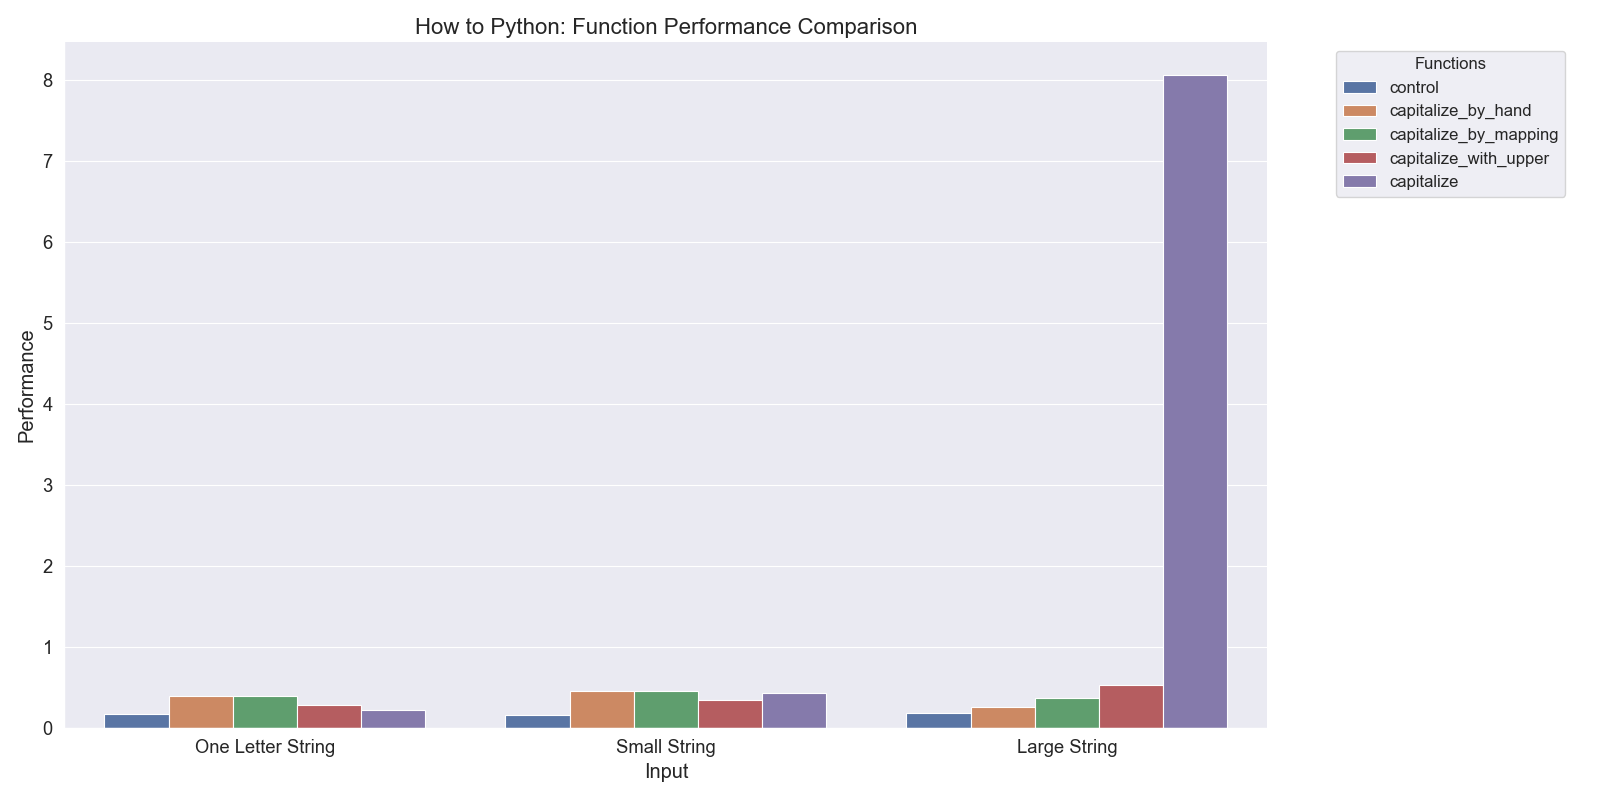
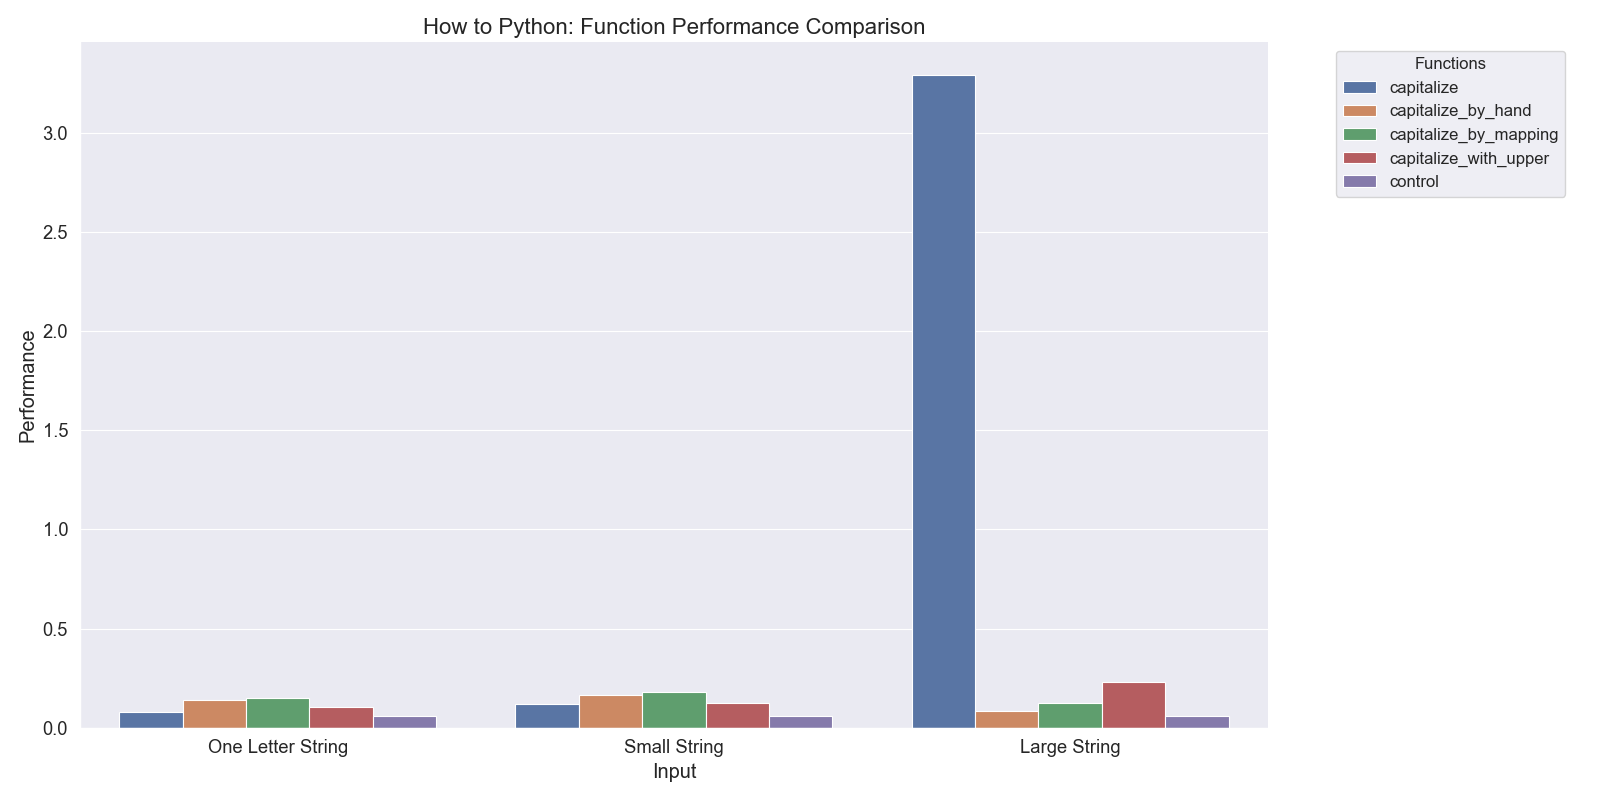
Added Clamping Tests (#60)
* Starting my testing

* Generated first test

* Added another test

* Added yet more tests

* Automated function list

* Reworked test bench to automate function collection

* Cleaned up code

* Reworked all solutions to use simplified test bench

* Added comments

* Added a large numbers test

diff --git a/testing/how_to_empty_a_list.py b/testing/how_to_empty_a_list.py
@@ -10,7 +10,7 @@ def control(anime: list[str]) -> None:
     """
     Provides a control scenario for testing. In this case, all of the solutions
     rely on copying the input list, so the control function accounts for that.
-    
+
     :param anime: a list of anime 
     """
     anime = anime.copy()
@@ -19,7 +19,7 @@ def control(anime: list[str]) -> None:
 def empty_list_by_hand(anime: list[str]) -> None:
     """
     Empties a list by repeatedly removing elements from a list.  
-    
+
     :param anime: a list of anime
     """
     anime = anime.copy()
@@ -30,7 +30,7 @@ def empty_list_by_hand(anime: list[str]) -> None:
 def empty_list_by_assignment(anime: list[str]) -> None:
     """
     Empties a list by reassigning the reference.
-    
+
     :param anime: a list of anime
     """
     anime = anime.copy()
@@ -40,7 +40,7 @@ def empty_list_by_assignment(anime: list[str]) -> None:
 def empty_list_by_clear(anime: list[str]) -> None:
     """
     Empties a list by calling the clear method.
-    
+
     :param anime: a list of anime
     """
     anime = anime.copy()
@@ -50,7 +50,7 @@ def empty_list_by_clear(anime: list[str]) -> None:
 def empty_list_by_del(anime: list[str]) -> None:
     """
     Empties a list by deleting a slice of the list.
-    
+
     :param anime: a list of anime
     """
     anime = anime.copy()
@@ -60,7 +60,7 @@ def empty_list_by_del(anime: list[str]) -> None:
 def empty_list_by_slice_assignment(anime: list[str]) -> None:
     """
     Empties a list by replacing a slice of the list with an empty list.
-    
+
     :param anime: a list of anime
     """
     anime = anime.copy()
@@ -70,27 +70,15 @@ def empty_list_by_slice_assignment(anime: list[str]) -> None:
 def empty_list_by_multiplication(anime: list[str]) -> None:
     """
     Empties a list by multiplication.
-    
+
     :param anime: a list of anime
     """
     anime = anime.copy()
     anime *= 0  # Also, would not work as a function
 
 
-def main() -> None:
-    """
-    Tests the performance of all the functions defined in this file. 
-    """
+if __name__ == "__main__":
     test_bench(
-        [
-            control,
-            empty_list_by_hand,
-            empty_list_by_assignment,
-            empty_list_by_clear,
-            empty_list_by_del,
-            empty_list_by_slice_assignment,
-            empty_list_by_multiplication
-        ],
         {
             "Empty List": [[]],
             "One Item List": [["Your Lie in April"]],
@@ -98,7 +86,3 @@ def main() -> None:
             "Large List": [["One Punch Man"] * 100]
         }
     )
-
-
-if __name__ == "__main__":
-    main()

diff --git a/testing/how_to_clamp_a_float.py b/testing/how_to_clamp_a_float.py
@@ -1,0 +1,81 @@
+"""
+Tests the performance of all of the solutions listed in the following article:
+https://therenegadecoder.com/code/how-to-clamp-a-floating-point-number-in-python/
+"""
+
+from test_bench import test_bench
+
+
+def control(*_) -> None:
+    """
+    Provides a control scenario for testing. In this case, none of the functions
+    share any overhead, so this function is empty.
+
+    :param _: a placeholder for the string input
+    :return: None
+    """
+    pass
+
+
+def clamp_float_with_branching_nested(num: float, minimum: float, maximum: float) -> float:
+    """
+    Clamps a float between two bounds using a series of if statements.
+
+    :param num: the value to clamp
+    :param minimum: the lower bound
+    :param maximum: the upper bound
+    :return: a value in the range of minimum and maximum
+    """
+    if num < minimum:
+        return minimum
+    elif num > maximum:
+        return maximum
+    else:
+        return num
+
+
+def clamp_float_with_branching_flat(num: float, minimum: float, maximum: float) -> float:
+    """
+    Clamps a float between two bounds using a series of ternary statements.
+
+    :param num: the value to clamp
+    :param minimum: the lower bound
+    :param maximum: the upper bound
+    :return: a value in the range of minimum and maximum
+    """
+    return minimum if num < minimum else maximum if num > maximum else num
+
+
+def clamp_float_with_min_and_max(num: float, minimum: float, maximum: float) -> float:
+    """
+    Clamps a float between two bounds using a mix of min and max functions.
+
+    :param num: the value to clamp
+    :param minimum: the lower bound
+    :param maximum: the upper bound
+    :return: a value in the range of minimum and maximum
+    """
+    return max(min(num, maximum), minimum)
+
+
+def clamp_float_with_sorting(num: float, minimum: float, maximum: float) -> float:
+    """
+    Clamps a float between two bounds using a sorting technique.
+
+    :param num: the value to clamp
+    :param minimum: the lower bound
+    :param maximum: the upper bound
+    :return: a value in the range of minimum and maximum
+    """
+    sorted([num, minimum, maximum])[1]
+
+
+if __name__ == "__main__":
+    test_bench(
+        {
+            "Lower Bound": [-.002, 0, .40],
+            "Upper Bound": [.402, 0, .40],
+            "Between Bounds": [.14, 0, .4],
+            "Large Numbers": [123456789, -432512317, 5487131463]
+        }
+    )

diff --git a/testing/test_bench.py b/testing/test_bench.py
@@ -1,28 +1,14 @@
-import importlib
 import inspect
 import os
 import timeit
+from inspect import getmembers, isfunction
 
 import matplotlib.pyplot as plt
 import pandas as pd
 import seaborn as sns
 
-import testing
 
-
-def run_suite() -> None:
-    """
-    An experimental function which allows us to run the main function of
-    all of our test files.
-
-    :return: None
-    """
-    for module_name in testing.__all__:
-        module = importlib.import_module(module_name)
-        module.main()
-
-
-def test_bench(funcs: list, test_data: dict):
+def test_bench(test_data: dict):
     """
     Given a list of functions and a list of dictionary of test data,
     this function will execute performance testing using all of the items
@@ -35,6 +21,12 @@ def test_bench(funcs: list, test_data: dict):
     :param funcs: a list of functions
     :param test_data: a dictionary of test data
     """
+    frame = inspect.stack()[1]
+    module = inspect.getmodule(frame[0])
+    funcs = [
+        member[1] for member in getmembers(module, isfunction)
+        if not "test_bench" in member[0]
+    ]
     results = _test_performance(funcs, test_data)
     _show_results(results)
 
@@ -86,11 +78,15 @@ def _show_results(results: pd.DataFrame):
             aspect=2
         )
     plt.title("How to Python: Function Performance Comparison", fontsize=16)
-    plt.legend(bbox_to_anchor=(1.05, 1), loc=2, title="Functions", fontsize='12', title_fontsize='12')
+    plt.legend(
+        bbox_to_anchor=(1.05, 1),
+        loc=2,
+        title="Functions",
+        fontsize='12',
+        title_fontsize='12'
+    )
     plt.tight_layout()
-    filename = os.path.splitext(os.path.basename(inspect.stack()[2].filename))[0]
-    plt.savefig(f"{os.path.join('visualizations', filename)}.png")
-
-
-if __name__ == '__main__':
-    run_suite()
+    filename = os.path.splitext(
+        os.path.basename(inspect.stack()[2].filename)
+    )[0]
+    plt.savefig(f"{os.path.join('testing', 'visualizations', filename)}.png")

diff --git a/testing/how_to_capitalize_a_string.py b/testing/how_to_capitalize_a_string.py
@@ -73,25 +73,11 @@ def capitalize(string: str) -> str:
     return string.capitalize()
 
 
-def main() -> None:
-    """
-    Tests the performance of all the functions defined in this file.
-    """
+if __name__ == '__main__':
     test_bench(
-        [
-            control,
-            capitalize_by_hand,
-            capitalize_by_mapping,
-            capitalize_with_upper,
-            capitalize
-        ],
         {
             "One Letter String": ["a"],
             "Small String": ["how now brown cow"],
             "Large String": ["One Punch Man" * 100]
         }
     )
-
-
-if __name__ == '__main__':
-    main()

diff --git a/testing/how_to_convert_an_integer_to_a_string.py b/testing/how_to_convert_an_integer_to_a_string.py
@@ -47,17 +47,8 @@ def convert_by_interpolation(integer: int) -> str:
     return "%s" % integer
 
 
-def main() -> None:
-    """
-    Tests the performance of all the functions defined in this file.
-    """
+if __name__ == '__main__':
     test_bench(
-        [
-            control,
-            convert_by_type_casting,
-            convert_by_f_string,
-            convert_by_interpolation
-        ],
         {
             "Zero": [0],
             "Single Digit": [5],
@@ -65,7 +56,3 @@ def main() -> None:
             "Massive Number": [2 ** 64]
         }
     )
-
-
-if __name__ == '__main__':
-    main()

diff --git a/testing/__init__.py b/testing/__init__.py
@@ -2,5 +2,7 @@ import glob
 from os.path import dirname, basename, isfile, join
 
 modules = glob.glob(join(dirname(__file__), "*.py"))
-__all__ = [basename(f)[:-3] for f in modules if
-           isfile(f) and not f.endswith('__init__.py') and not f.endswith("test_bench.py")]
+__all__ = [
+    basename(f)[:-3] for f in modules 
+    if isfile(f) and not f.endswith('__init__.py') and not f.endswith("test_bench.py")
+]
